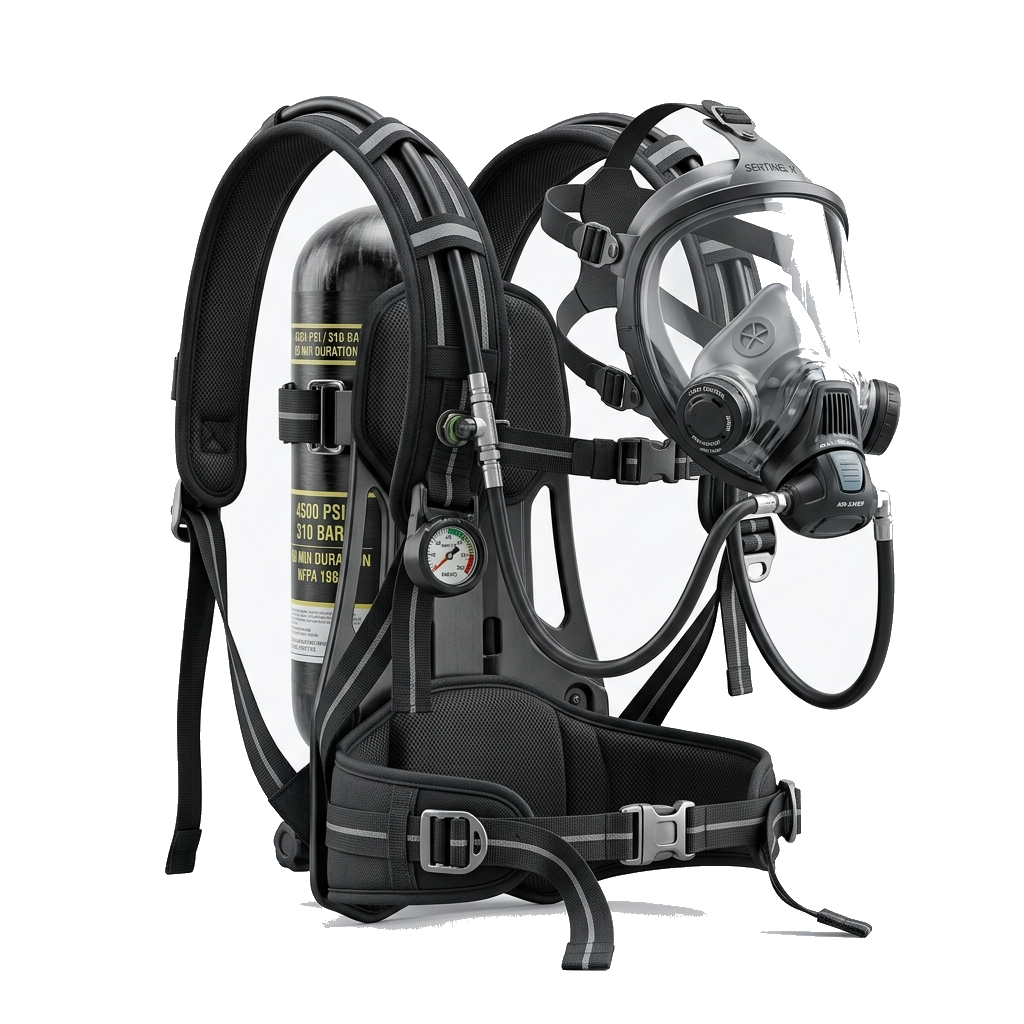
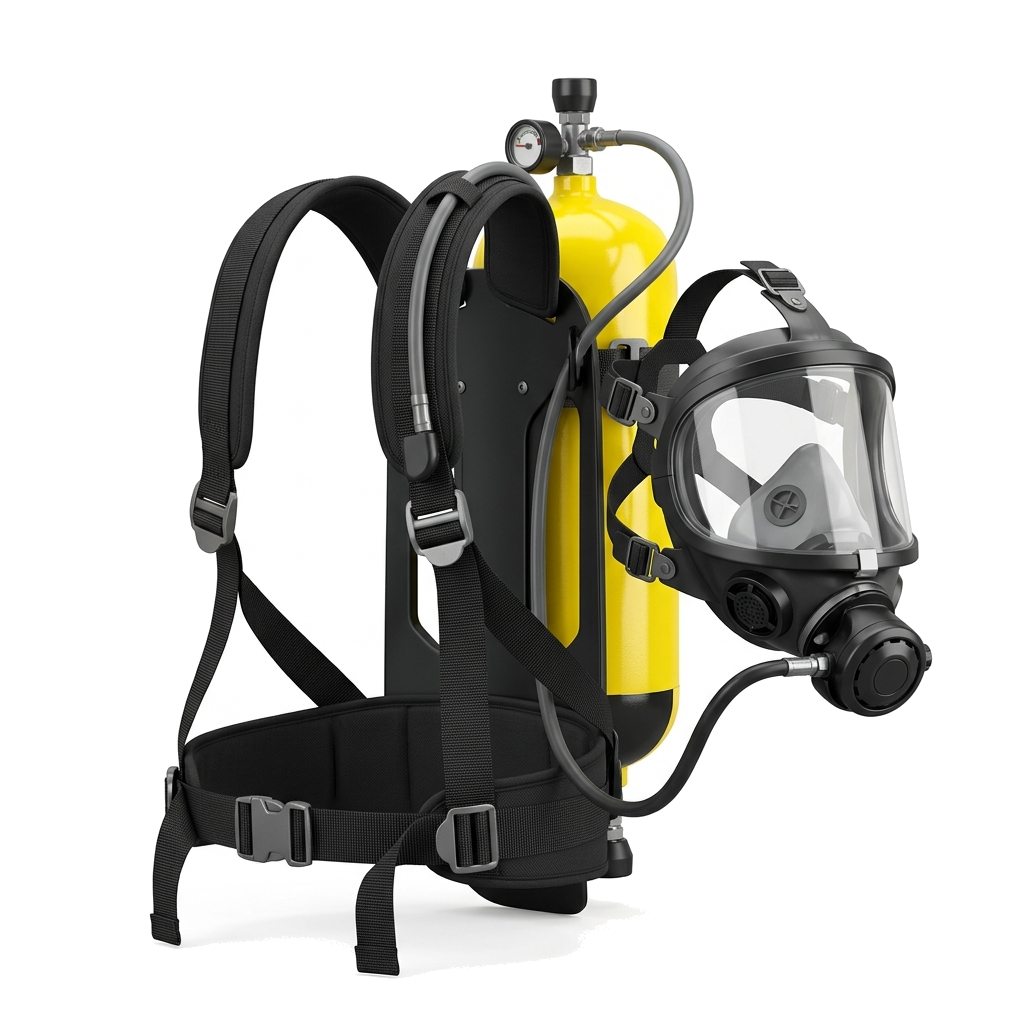
modified assets

diff --git a/lib/icons.dart b/lib/icons.dart
@@ -668,6 +668,7 @@ class _IconsPageState extends State<IconsPage> with TickerProviderStateMixin {
             }
 
             _assignModuleStatus(mod);
+            modulesNeedingFetch.add(mod);
           } else {
             modulesNeedingFetch.add(mod);
           }
@@ -850,13 +851,24 @@ class _IconsPageState extends State<IconsPage> with TickerProviderStateMixin {
                       children: [
                         Row(
                           children: [
-                            ClipRRect(
-                              borderRadius: BorderRadius.circular(6),
-                              child: Image.asset(
-                                'assets/eltrive_logo.jpg',
-                                height: 24,
-                                width: 24,
-                                fit: BoxFit.cover,
+                            Container(
+                              decoration: BoxDecoration(
+                                shape: BoxShape.circle,
+                                boxShadow: [
+                                  BoxShadow(
+                                    color: Colors.black.withOpacity(0.08),
+                                    blurRadius: 5,
+                                    offset: const Offset(0, 2),
+                                  ),
+                                ],
+                              ),
+                              child: ClipOval(
+                                child: Image.asset(
+                                  'assets/eltrive_logo.jpg',
+                                  height: 32,
+                                  width: 32,
+                                  fit: BoxFit.cover,
+                                ),
                               ),
                             ),
                             const SizedBox(width: 8),
@@ -1000,9 +1012,29 @@ class _IconsPageState extends State<IconsPage> with TickerProviderStateMixin {
                             content: Column(
                               mainAxisSize: MainAxisSize.min,
                               children: [
-                                ClipRRect(
-                                  borderRadius: BorderRadius.circular(8),
-                                  child: Image.asset('assets/eltrive_logo.jpg', height: 60),
+                                Container(
+                                  height: 80,
+                                  width: 80,
+                                  decoration: BoxDecoration(
+                                    shape: BoxShape.circle,
+                                    border: Border.all(
+                                      color: isDark ? Colors.white24 : Colors.black12,
+                                      width: 2.5,
+                                    ),
+                                    boxShadow: [
+                                      BoxShadow(
+                                        color: Colors.black.withOpacity(0.12),
+                                        blurRadius: 8,
+                                        offset: const Offset(0, 3),
+                                      ),
+                                    ],
+                                  ),
+                                  child: ClipOval(
+                                    child: Image.asset(
+                                      'assets/eltrive_logo.jpg',
+                                      fit: BoxFit.cover,
+                                    ),
+                                  ),
                                 ),
                                 const SizedBox(height: 15),
                                 Text(